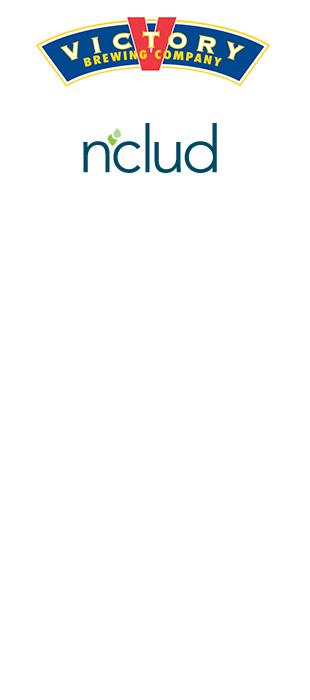
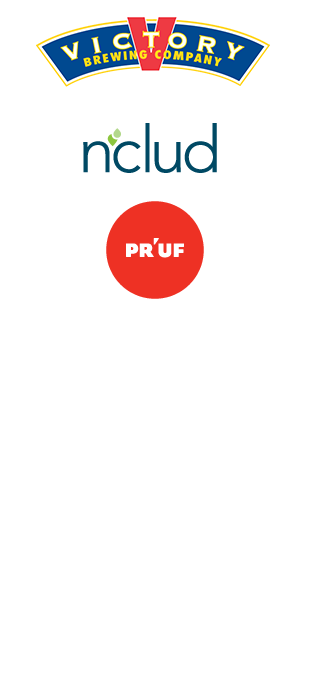
Add PR'UF to sponsor list. sponsor-list -> spnsr-list

Changed region(s): [[0.3194, 0.27, 0.6677, 0.45]]

diff --git a/css/style.css b/css/style.css
@@ -749,14 +749,14 @@ a:hover {
 
 /* Sponsor list */
 
-#sponsorz .sponsor-list {
+#sponsorz .spnsr-list {
   list-style: none;
   margin: 0;
   position: absolute;
   top: 120px;
 }
 
-#sponsorz .sponsor-list li {
+#sponsorz .spnsr-list li {
   position: absolute;
   width: 310px;
   height: 100px;
@@ -764,26 +764,29 @@ a:hover {
   text-align: center;
 }
 
-#sponsorz .sponsor-list li.n2 { left: 330px; }
-#sponsorz .sponsor-list li.n3,
-#sponsorz .sponsor-list li.n5,
-#sponsorz .sponsor-list li.n7 { left: 660px; }
-#sponsorz .sponsor-list li.n4,
-#sponsorz .sponsor-list li.n5 { top: 120px; }
-#sponsorz .sponsor-list li.n6,
-#sponsorz .sponsor-list li.n7 { top: 240px; }
+#sponsorz .spnsr-list li.n2 { left: 330px; }
+#sponsorz .spnsr-list li.n3,
+#sponsorz .spnsr-list li.n5,
+#sponsorz .spnsr-list li.n7 { left: 660px; }
+#sponsorz .spnsr-list li.n4,
+#sponsorz .spnsr-list li.n5 { top: 120px; }
+#sponsorz .spnsr-list li.n6,
+#sponsorz .spnsr-list li.n7 { top: 240px; }
 
-#sponsorz .sponsor-list li a {
+#sponsorz .spnsr-list li a {
   background-image: url('../img/sponsors.png');
   height: 100%;
   display: block;
 }
 
+#sponsorz .spnsr-list li a:hover { background-color: white; }
+
 #sponsorz .victory { background-position: 0      0; }
 #sponsorz .nclud   { background-position: 0 -100px; }
+#sponsorz .pruf    { background-position: 0 -200px; }
 
 
-#sponsorz .sponsor-list li.open {
+#sponsorz .spnsr-list li.open {
   font-size: 18px;
   text-transform: uppercase;
   line-height: 100px;

diff --git a/index.html b/index.html
@@ -167,9 +167,9 @@ layout: nil
 
           <h1>Sponsored By:</h1>
 
-          <ul class="sponsor-list">
+          <ul class="spnsr-list">
             <li class="n1"><a class="victory ir" href="http://victorybeer.com/" title="Victory Brewing Company" >Victory Brewing Company</a></li>
-            <li class="n2 open">Sponsorship available</li>
+            <li class="n2"><a class="pruf ir" href="http://www.mypruf.com/" title="PR&rsquo;UF">PR&rsquo;UF</a></li>
             <li class="n3"><a class="nclud ir" href="http://nclud.com/" title="nclud" >nclud</a></li>
             <li class="n4 open">Sponsorship available</li>
             <li class="n5 open">Sponsorship available</li>
